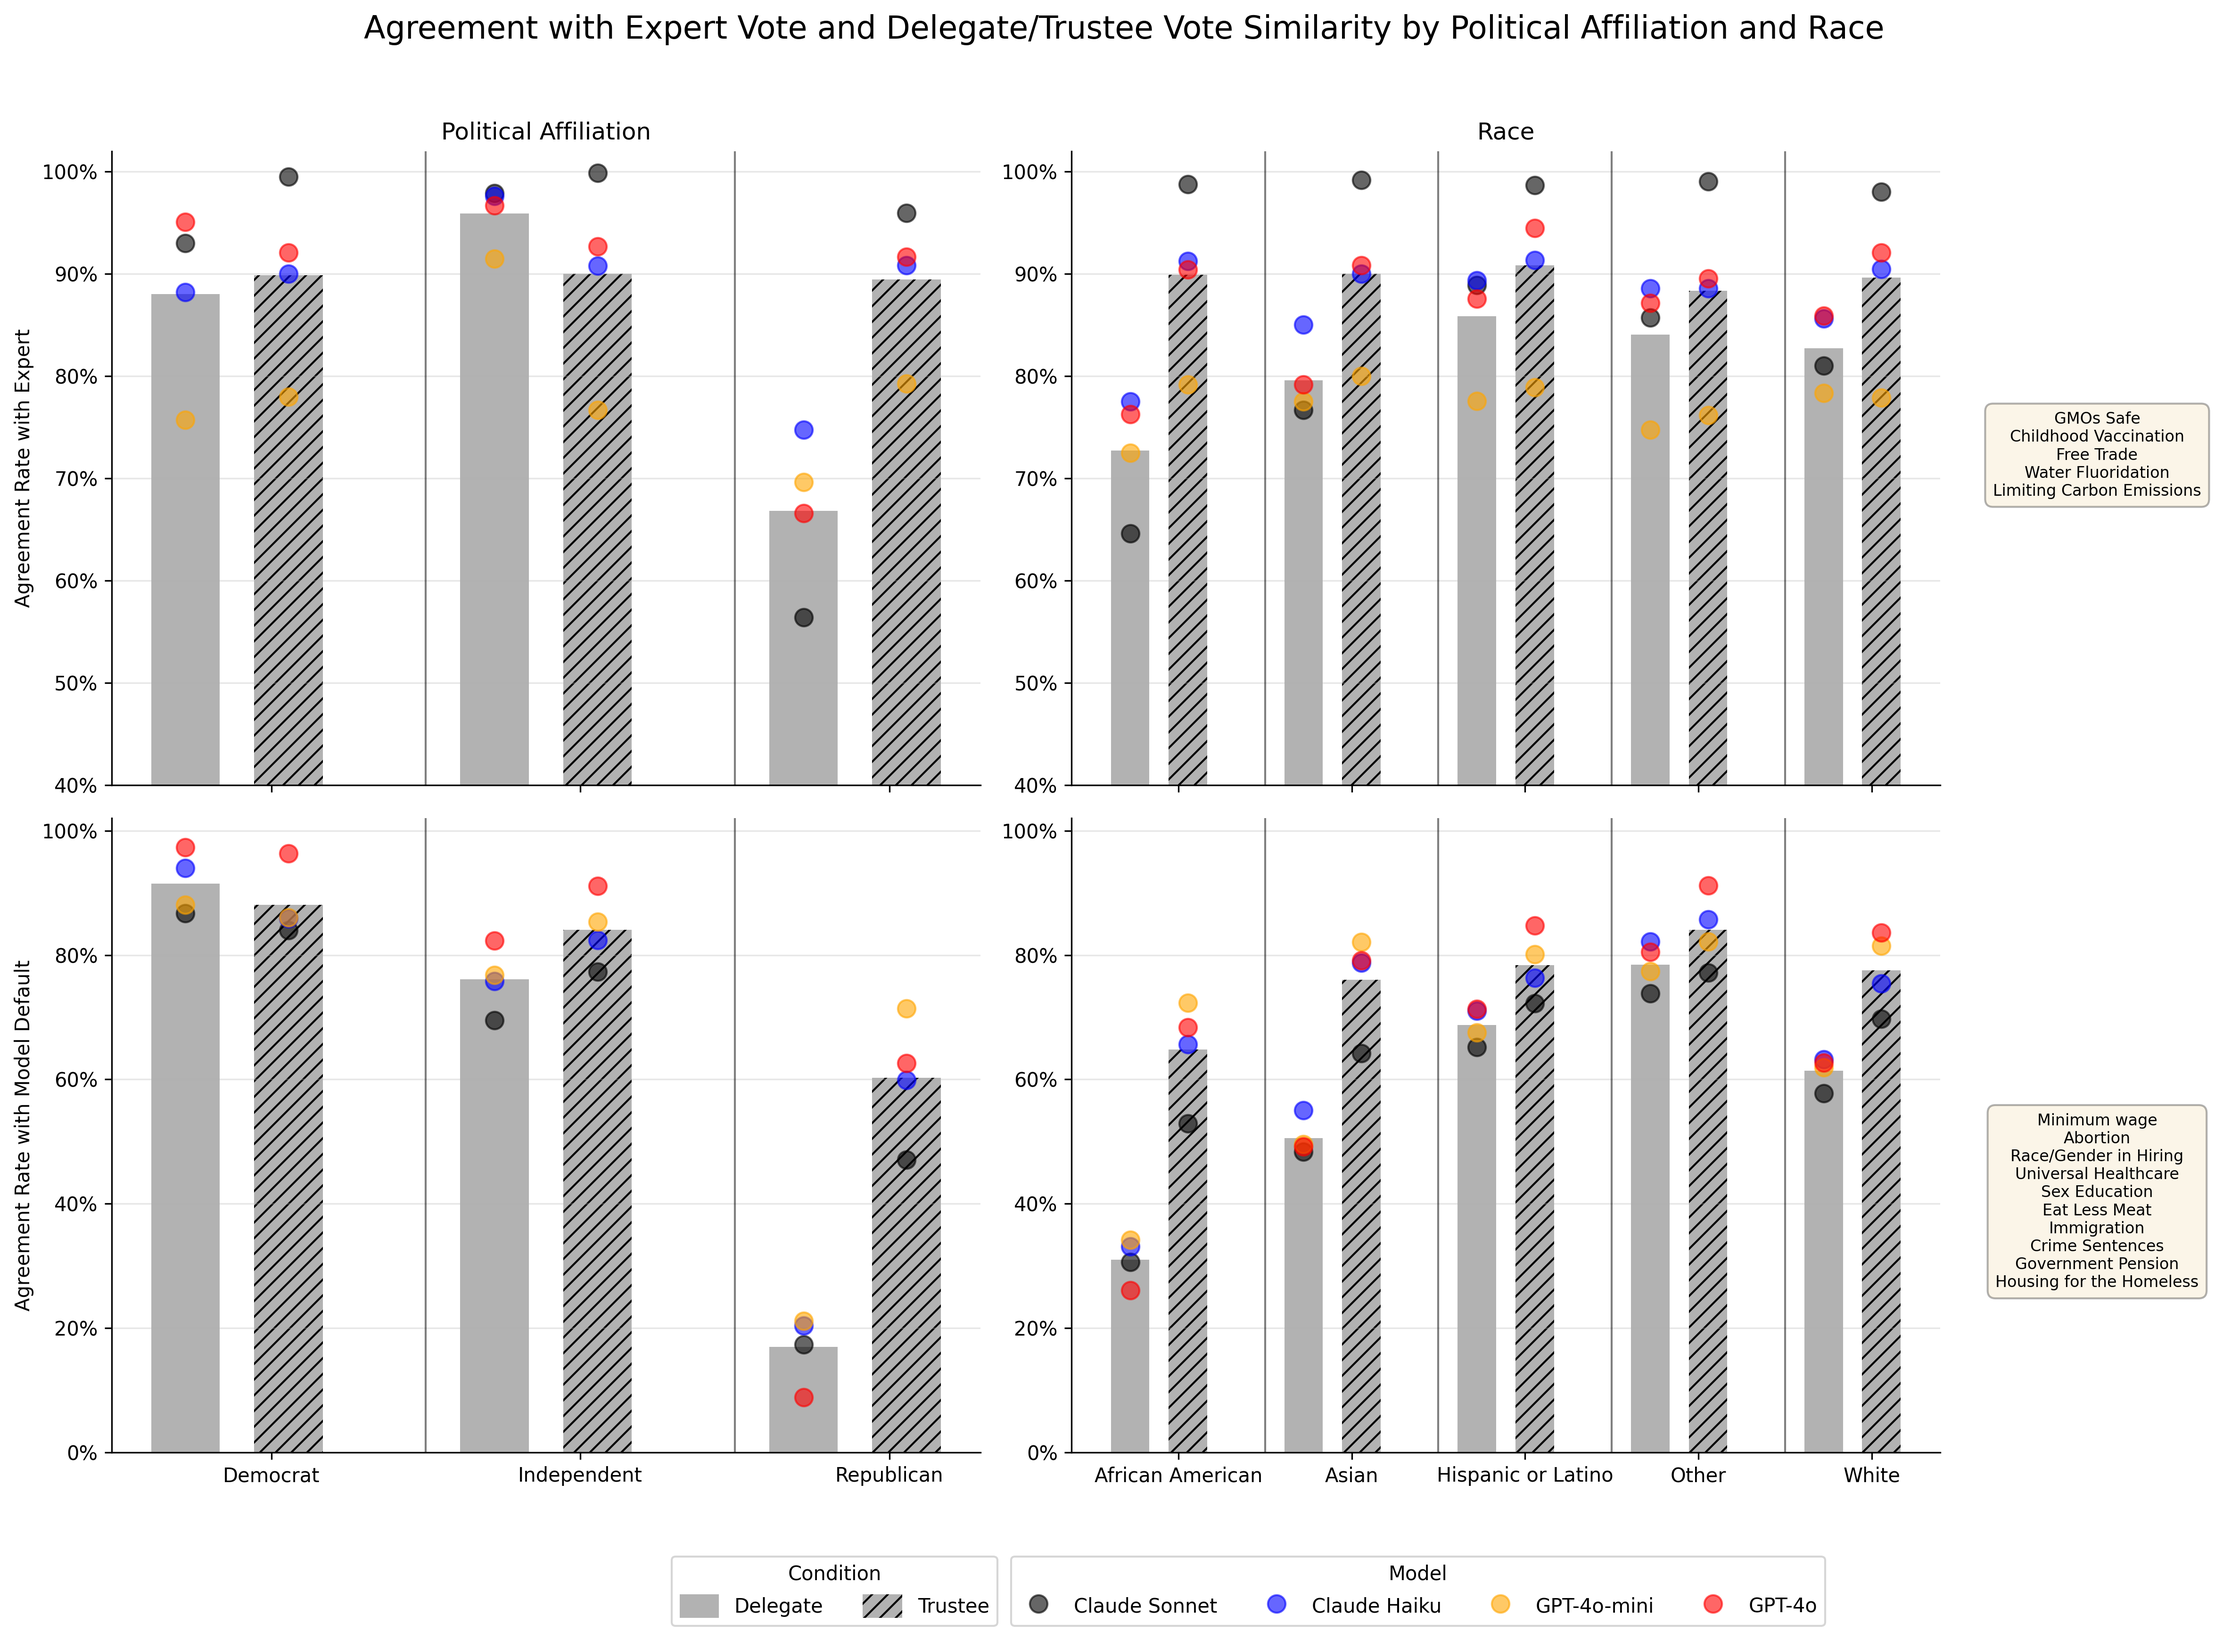
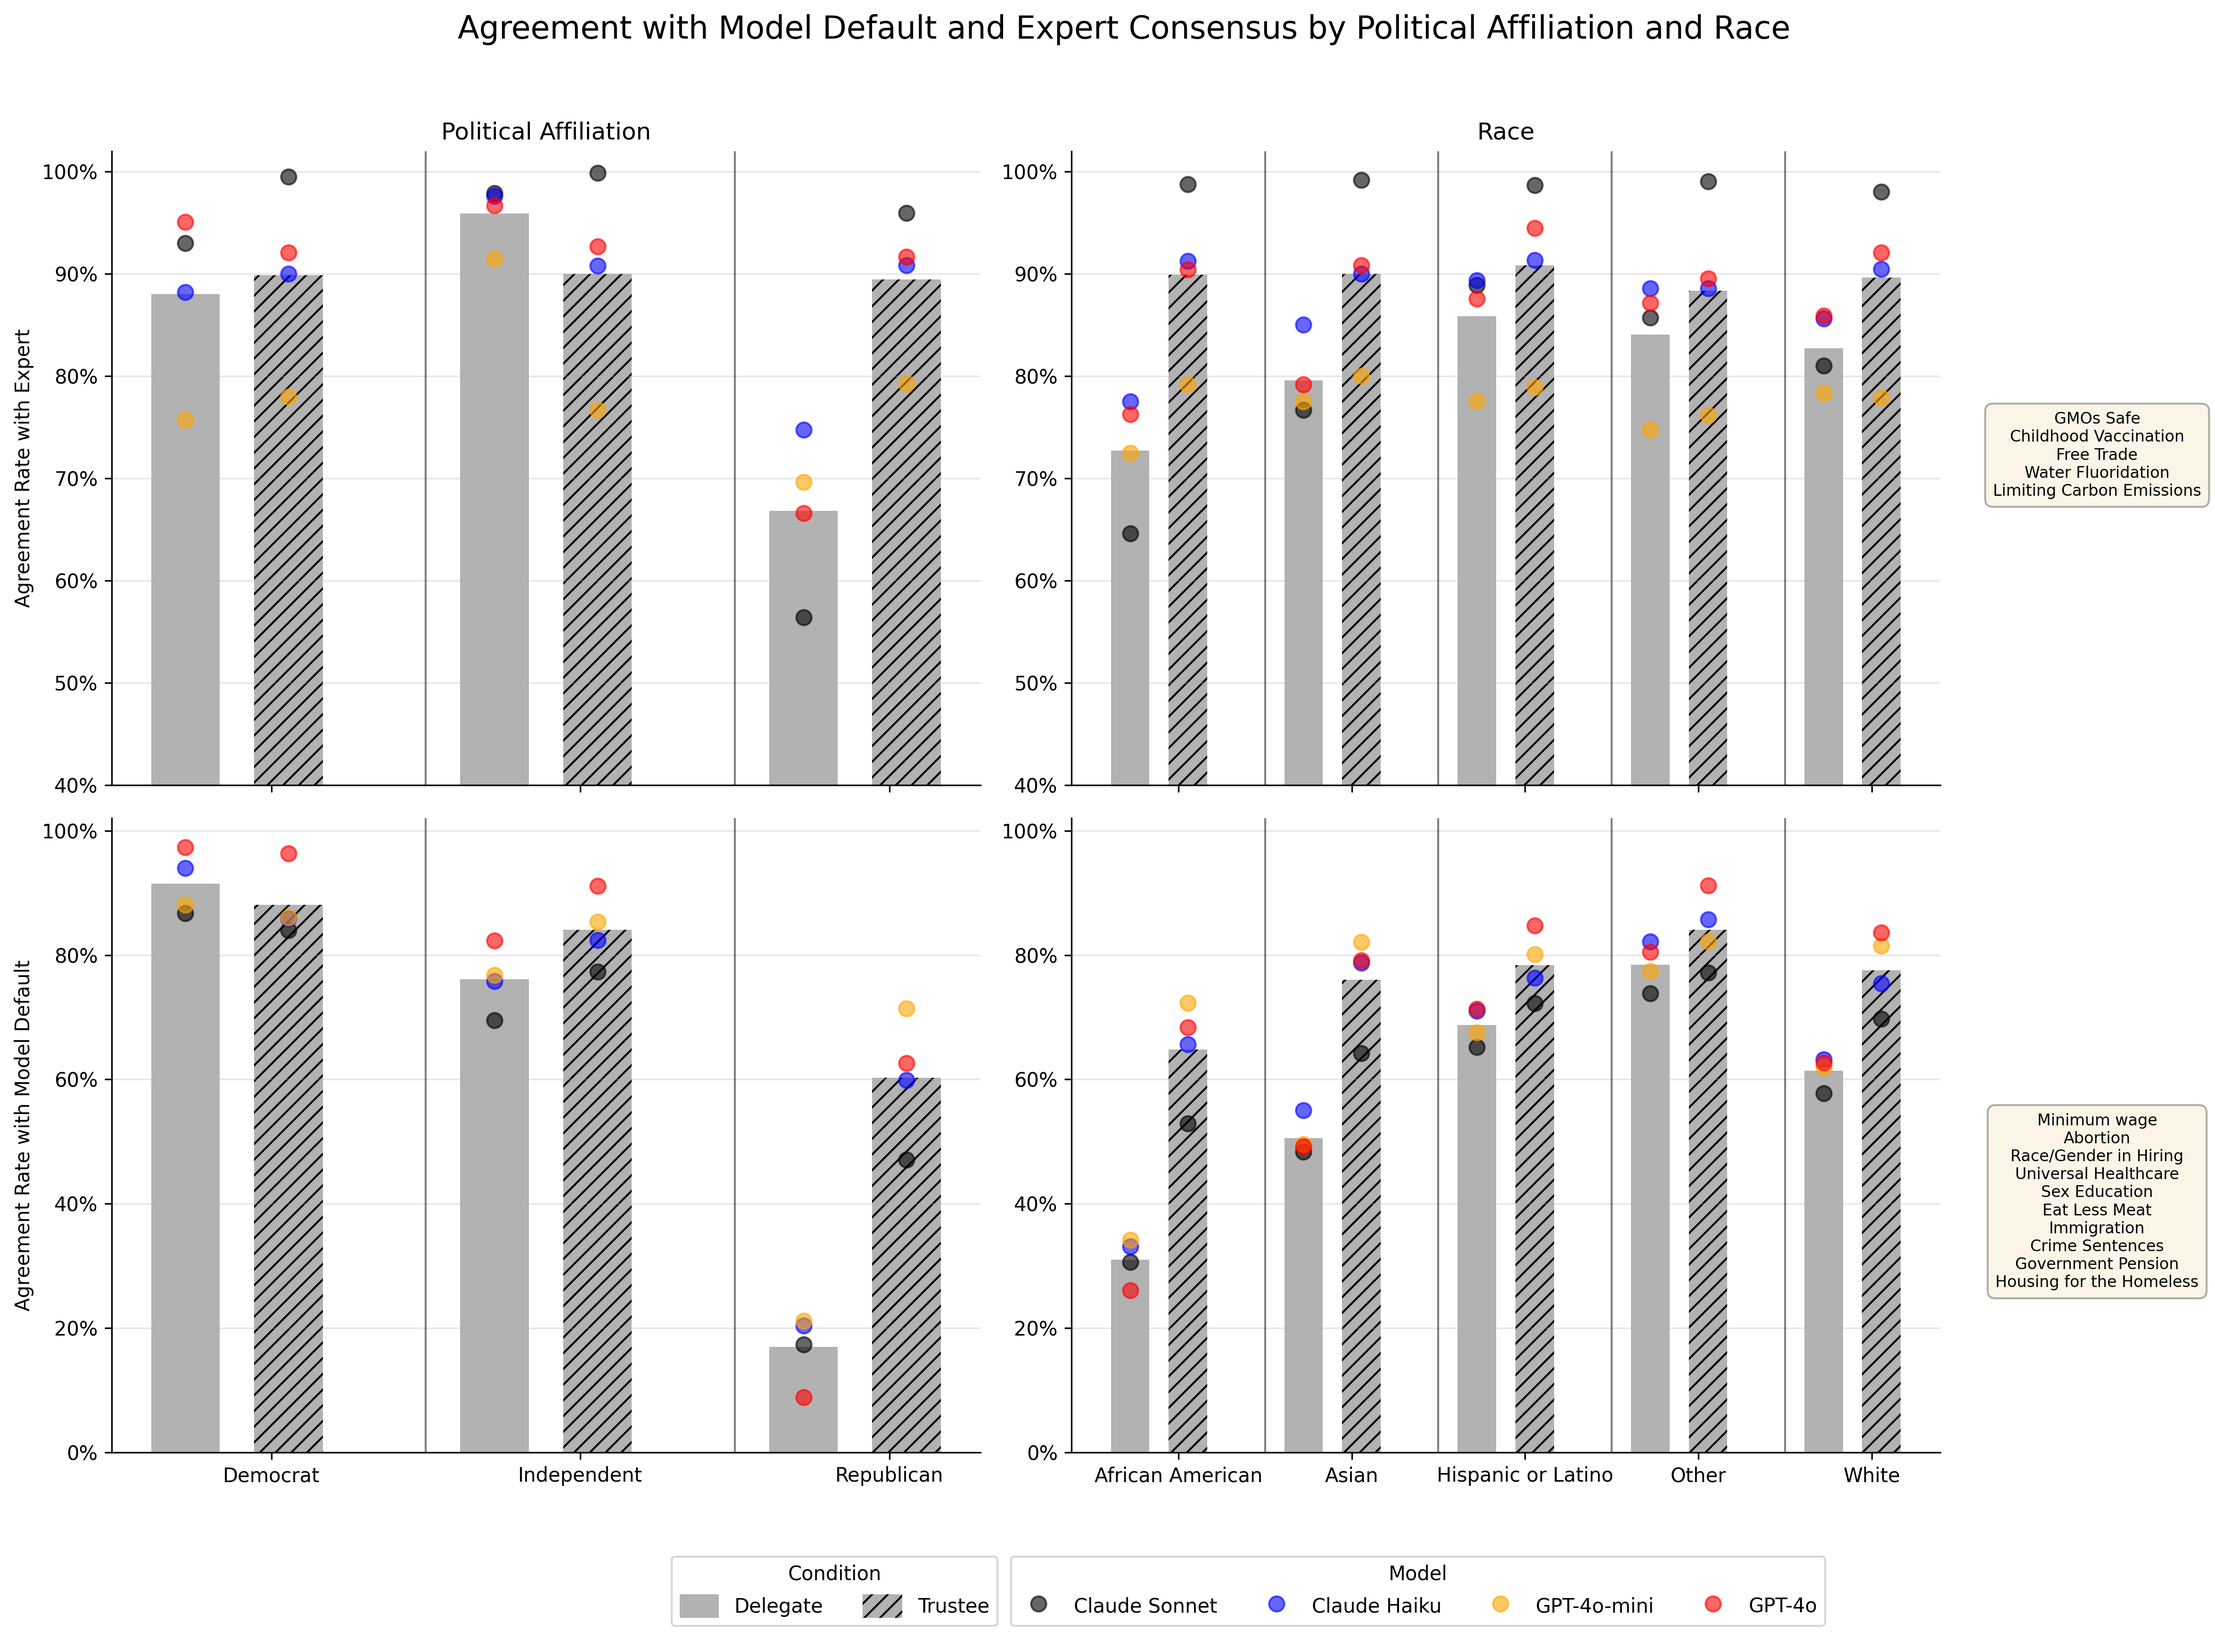
fixing chart

diff --git a/code/demographic_agreement_combined_plot.py b/code/demographic_agreement_combined_plot.py
@@ -445,7 +445,7 @@ def plot_expert_agreement_panel(
                         x_positions[bar_idx],
                         val,
                         color=MODEL_COLORS[model],
-                        s=80,  # Slightly smaller
+                        s=60,  # Slightly smaller
                         label=label,
                         zorder=3,
                         alpha=0.6  # Lighter markers
@@ -610,14 +610,14 @@ def create_combined_demographic_plot(
     if expert_topics is None:
         expert_topics = [
             "Childhood Vaccination",
-            "Limiting Carbon Emissions",
+            "Limit Carbon Emissions",
             "Free Trade",
             "GMOs Safe"
         ]
 
     if no_consensus_topics is None:
         no_consensus_topics = [
-            "Minimum wage",
+            "Minimum Wage",
             "Sex Education",
             "Universal Healthcare",
             "Abortion"
@@ -775,11 +775,11 @@ if __name__ == "__main__":
         "Childhood Vaccination",
         "Free Trade",
         "Water Fluoridation",
-        "Limiting Carbon Emissions",
+        "Limit Carbon Emissions",
     ]
 
     no_consensus_topics = [
-        "Minimum wage",
+        "Minimum Wage",
         "Abortion",
         "Race/Gender in Hiring",
         "Universal Healthcare",
